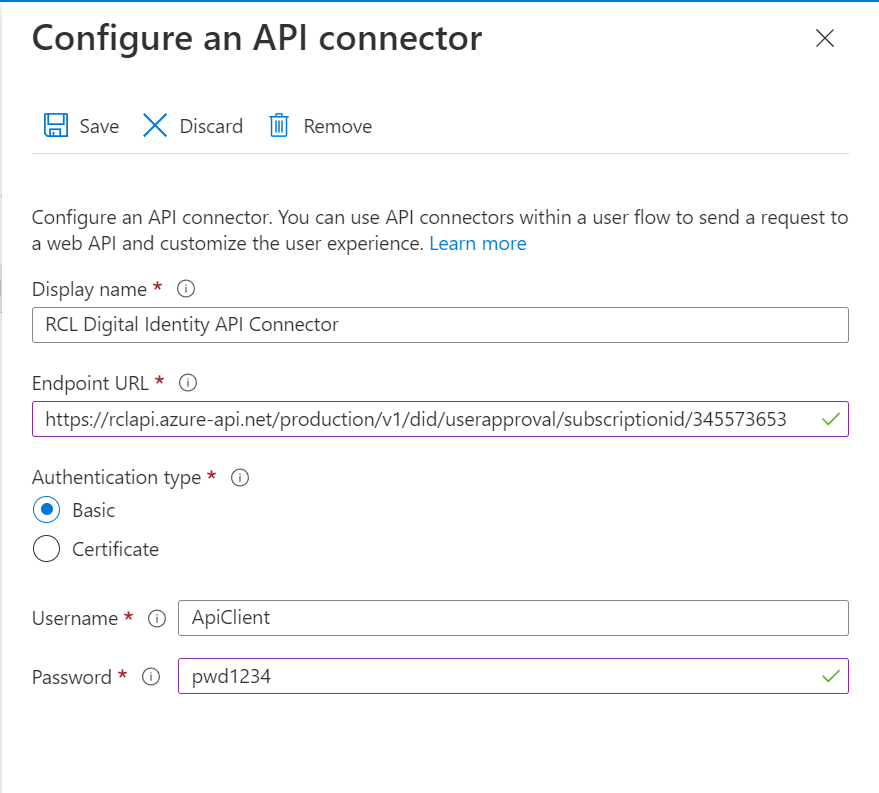
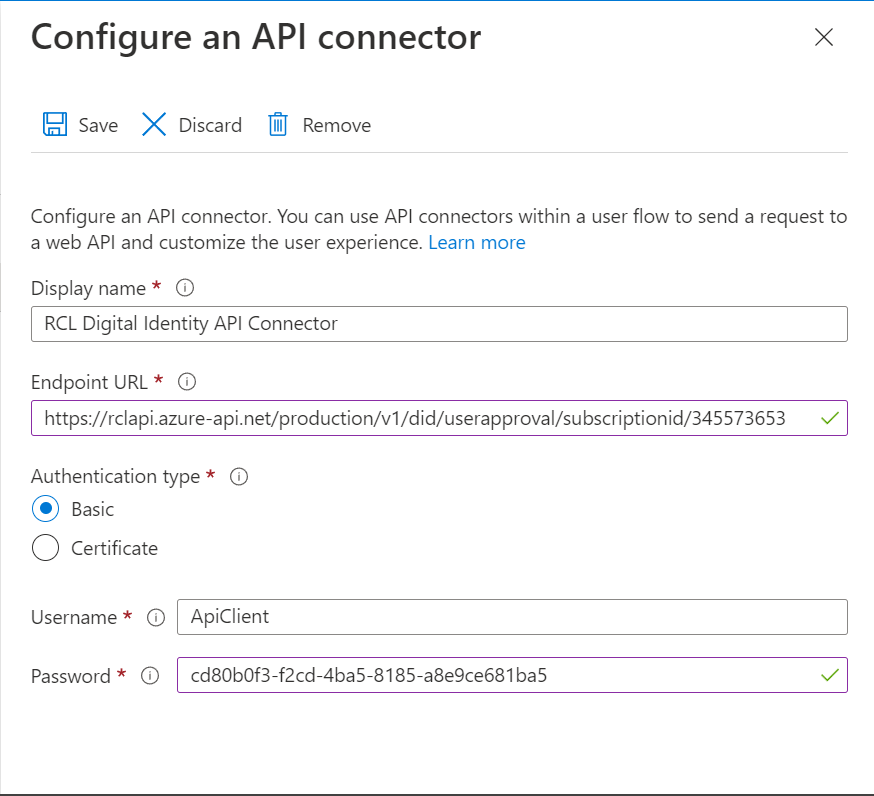
updated web app registration

diff --git a/apiconnector.md b/apiconnector.md
@@ -53,11 +53,15 @@ Follow these steps to set the password :
 
 ![image](/images/apiconnector/identityapprover-create4.png)
 
-- Add a value and click the ``Submit`` button
+- Copy the **Application(client) ID** for the [Web Application](./aadb2c.md#register-a-web-application) you registered previously
+
+![image](/images/aadb2c/app-registration4.png)
+
+- Add the **Application(client) ID** value and click the ``Submit`` button
 
 ![image](/images/apiconnector/identityapprover-create5.png)
 
-- Use this **Client Id** as the password.
+- Use the **Client Id** as the password.
 
 ![image](/images/apiconnector/identityapprover-create6.png)
 
